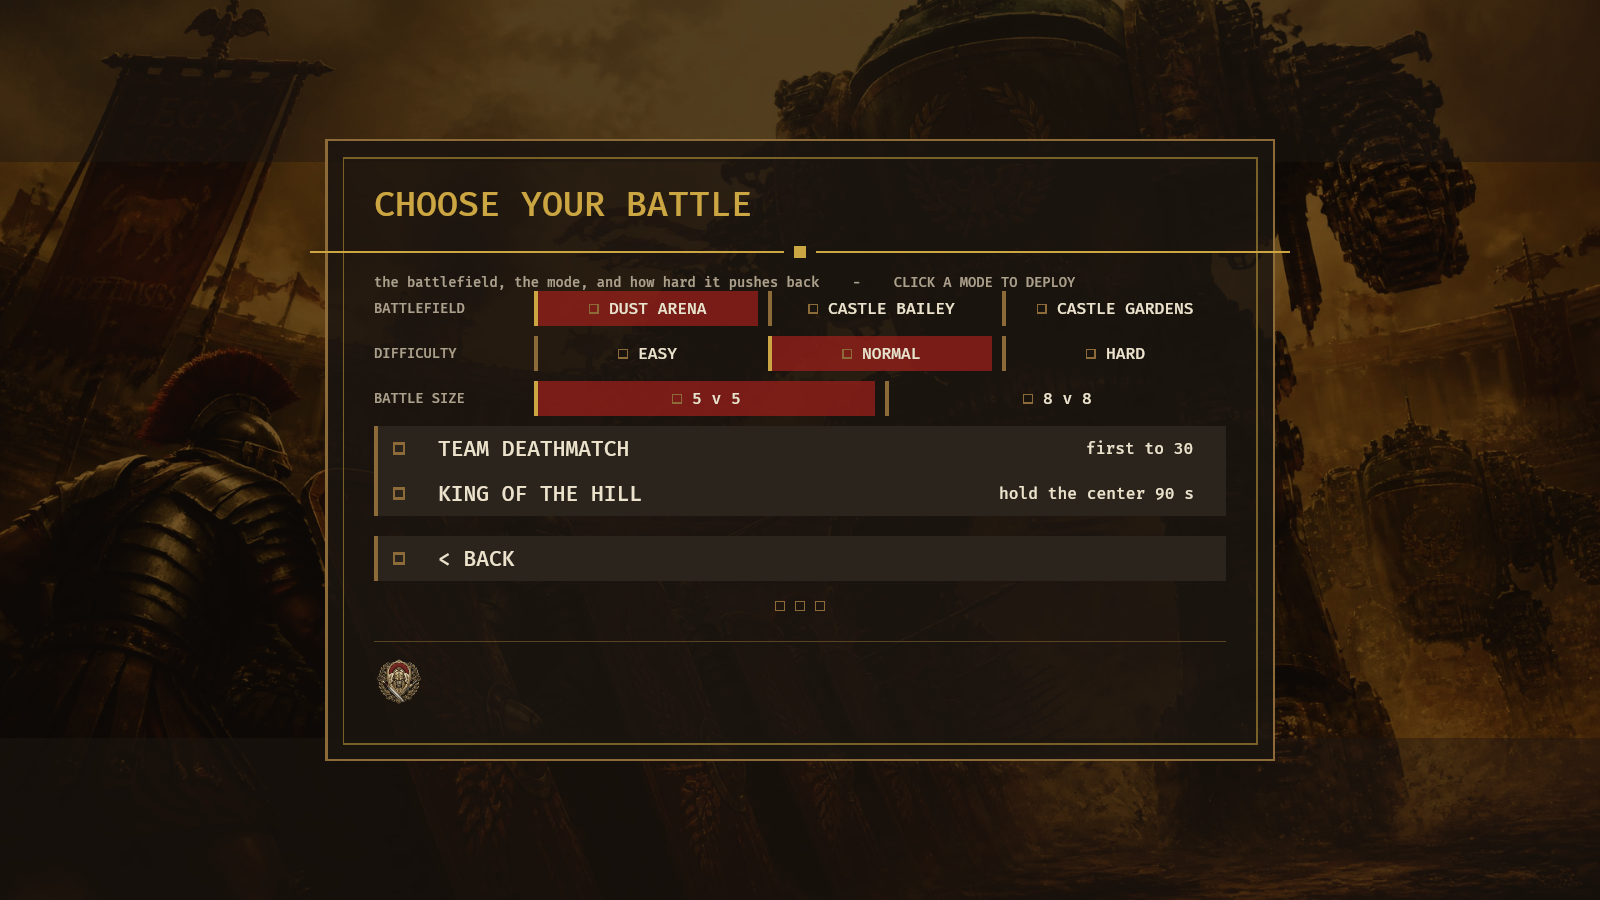
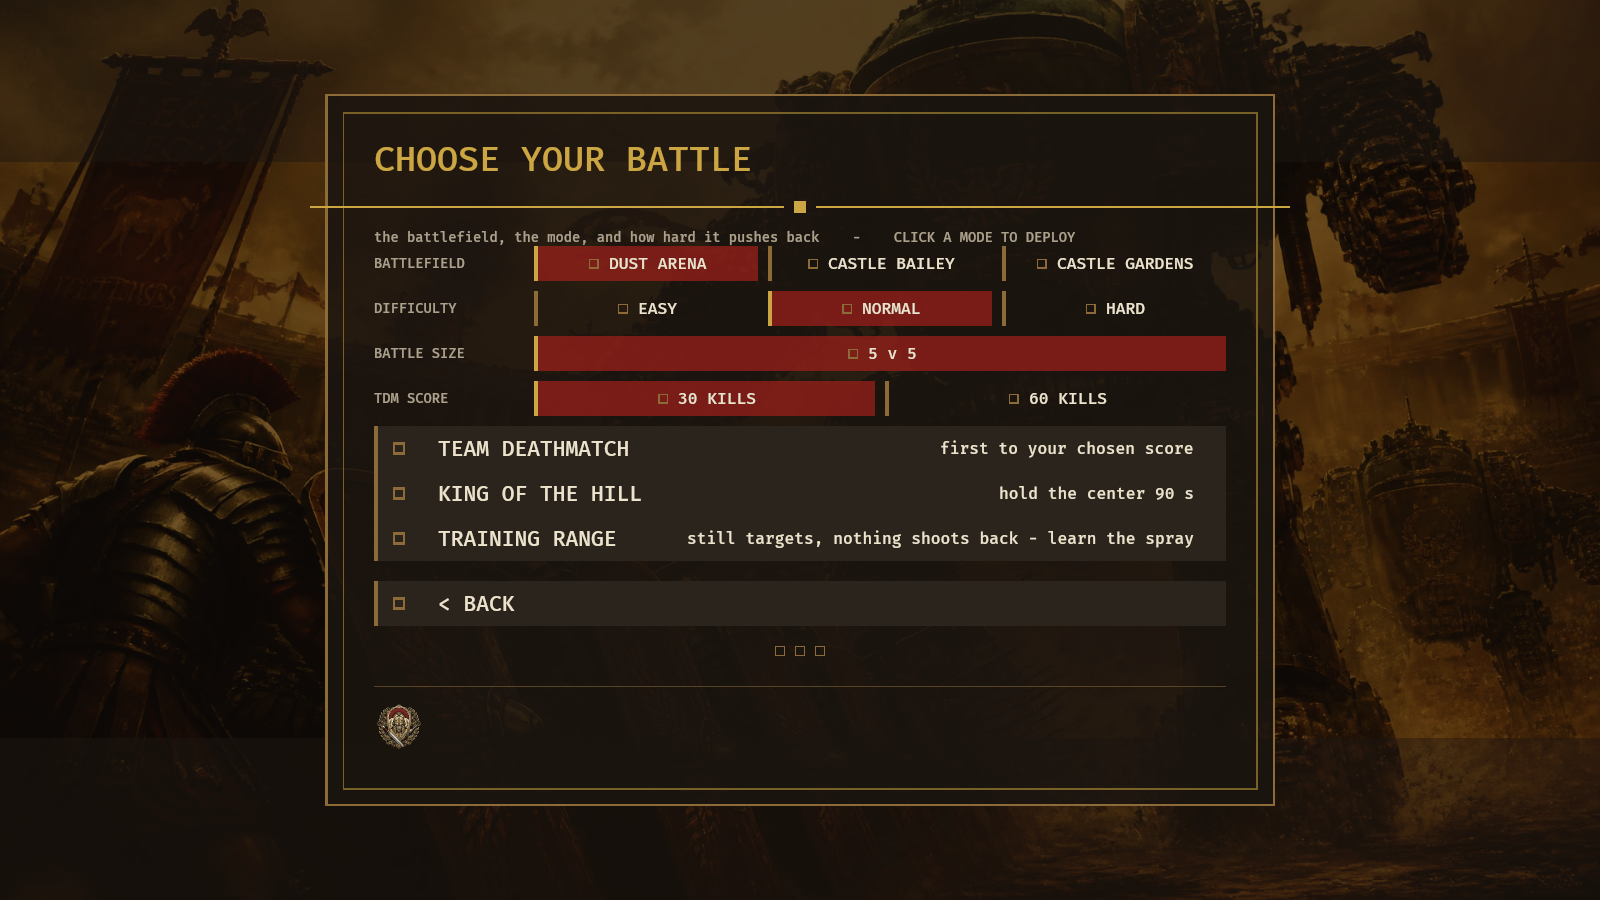
Selectable TDM score, 8v8 withdrawn, and a training range
TDM SCORE is a per-match choice now - 30 kills for a quick game, 60 for
a long one. The target moved onto MatchConfig and all three win checks
read the match's own value, so a short game and a long game are the same
mode at two lengths rather than two modes. TDM_TARGET stays as the
default and as the number the rules screen quotes. The live score line
quotes the match's target too, instead of a constant that no longer
speaks for it.

8v8 is withdrawn. The battle-size row keeps its shape with 5v5 alone,
rather than being deleted - a one-option row still tells the player the
axis exists and leaves somewhere for whatever replaces it.

TRAINING RANGE is a third mode: the targets stand still, never shoot
back, and are up again in 1.2 s instead of the full respawn. There is no
score target and no way to lose. It exists so a spray pattern and a
sight picture can be learned without dying to someone mid-lesson - which
matters more now that the first three rounds of a burst are the part
worth practising.

The range test earned itself immediately. Gating `bot_think` looked
sufficient and was not: that function PLANS, while `bot_act` pulls the
trigger, so the first cut left the targets standing politely still and
still shooting the player. Health was untouched only because they kept
missing. Both are gated now, and the test asserts on rounds fired rather
than damage taken - the stronger claim, and the one that caught it.

diff --git a/engine/crates/jk_tdm/src/sim.rs b/engine/crates/jk_tdm/src/sim.rs
@@ -306,7 +306,15 @@ pub const LEAN_SHIFT: f32 = 0.30;
 pub const LEAN_RECOIL_MULT: f32 = 0.8;
 pub const MATCH_LEN_S: f32 = 300.0;
 pub const OVERTIME_S: f32 = 80.0;
+/// Default TDM score target. The match now CARRIES its own target
+/// (`MatchConfig::tdm_target`) so a short game and a long game are the
+/// same mode at different lengths rather than two modes; this stays as
+/// the default and as the value the rules screen quotes.
 pub const TDM_TARGET: u32 = 30;
+/// The selectable TDM lengths: a quick match and a long one.
+pub const TDM_TARGET_CHOICES: [u32; 2] = [30, 60];
+/// How fast a training target is back on its feet.
+pub const TRAINING_RESPAWN_S: f32 = 1.2;
 pub const KOTH_TARGET_S: f32 = 90.0;
 pub const HILL_RADIUS: f32 = 4.5;
 pub const PICKUP_RADIUS: f32 = 1.1;
@@ -1445,6 +1453,8 @@ pub struct MatchConfig {
     pub map: MapKind,
     pub difficulty: Difficulty,
     pub loadout: Loadout,
+    /// §owner: kills needed to win a TDM. Selectable per match.
+    pub tdm_target: u32,
     /// §owner: the player's chosen class. Bots pick their own.
     pub class: Class,
     /// §6 (Brief IV): the player's melee slot carries the axe.
@@ -1463,6 +1473,7 @@ impl Default for MatchConfig {
             map: MapKind::Arena,
             difficulty: Difficulty::Normal,
             loadout: DEFAULT_LOADOUT,
+            tdm_target: TDM_TARGET,
             class: Class::Line,
             melee_axe: false,
             grenade_preset: 0,
@@ -3305,6 +3316,12 @@ pub enum Mode {
     /// §8: co-op survival — insert, fight the horde, extract with what
     /// you carry. Gear is lost on death.
     Extraction,
+    /// §owner: TRAINING. A range, not a match: the other side stands
+    /// still, never shoots back, and pops straight back up when killed.
+    /// There is no score target and no way to lose - it exists so a
+    /// player can learn a spray pattern and a sight picture without
+    /// dying to someone mid-lesson.
+    Training,
 }
 
 pub struct TdmSim {
@@ -5784,10 +5801,12 @@ impl TdmSim {
     /// a free heal. The claw path had already been special-cased for
     /// exactly this reason; the explosive paths had not.
     fn death_respawn_t(&self) -> f32 {
-        if self.mode == Mode::Extraction {
-            9999.0
-        } else {
-            RESPAWN_S
+        match self.mode {
+            Mode::Extraction => 9999.0,
+            // a target you have to wait five seconds for is a target you
+            // stop practising against
+            Mode::Training => TRAINING_RESPAWN_S,
+            _ => RESPAWN_S,
         }
     }
 
@@ -6642,7 +6661,7 @@ impl TdmSim {
             if self.mode == Mode::Tdm {
                 let s = Self::team_idx(self.fighters[i].team);
                 self.score[s] += 1.0;
-                if self.overtime || self.score[s] >= TDM_TARGET as f32 {
+                if self.overtime || self.score[s] >= self.cfg.tdm_target as f32 {
                     self.finish(self.fighters[i].team);
                 }
             }
@@ -7014,7 +7033,7 @@ impl TdmSim {
                 if self.mode == Mode::Tdm {
                     let s = Self::team_idx(self.fighters[i].team);
                     self.score[s] += 1.0;
-                    if self.overtime || self.score[s] >= TDM_TARGET as f32 {
+                    if self.overtime || self.score[s] >= self.cfg.tdm_target as f32 {
                         self.finish(self.fighters[i].team);
                     }
                 }
@@ -8116,7 +8135,7 @@ impl TdmSim {
                 if self.mode == Mode::Tdm {
                     let s = Self::team_idx(self.fighters[src].team);
                     self.score[s] += 1.0;
-                    if self.overtime || self.score[s] >= TDM_TARGET as f32 {
+                    if self.overtime || self.score[s] >= self.cfg.tdm_target as f32 {
                         self.finish(self.fighters[src].team);
                     }
                 }
@@ -8292,6 +8311,14 @@ impl TdmSim {
     }
 
     fn bot_think(&mut self, i: usize) {
+        // §owner: on the RANGE the targets are targets. They hold their
+        // ground and they never fire, so the only thing being tested is
+        // the player's own aim. Returning here skips the whole think -
+        // pathing, target selection and the fire decision alike - rather
+        // than muting the trigger and leaving them jogging around.
+        if self.mode == Mode::Training && i != self.player {
+            return;
+        }
         let half = self.half;
         let f = &self.fighters[i];
         let team = f.team;
@@ -8337,6 +8364,13 @@ impl TdmSim {
     }
 
     fn bot_act(&mut self, i: usize) {
+        // §owner: the range's promise lives here too. `bot_think` plans
+        // and `bot_act` pulls the trigger - gating only the planner left
+        // the targets standing still and still shooting, which the
+        // range test caught.
+        if self.mode == Mode::Training && i != self.player {
+            return;
+        }
         // difficulty shapes the whole brain: aim, reflexes, range, push.
         // §5.3: a flashed bot eats the SAME penalty a flashed human does —
         // aim spread ×4, reaction ×3, deterministically.
@@ -9461,6 +9495,48 @@ mod tests {
                 "the ramp must never go backwards at round {i}"
             );
         }
+    }
+
+    /// §owner: the RANGE's promise is "nothing shoots back". A training
+    /// mode where you can still be killed mid-lesson is not a training
+    /// mode, so this pins it through the real step loop rather than
+    /// trusting the early-return in `bot_think` to stay there.
+    #[test]
+    fn the_training_range_never_shoots_back() {
+        let mut cfg = cfg(0x713A, 3, Mode::Tdm, MapKind::Arena);
+        cfg.mode = Mode::Training;
+        let mut s = TdmSim::new(cfg);
+        s.mode = Mode::Training;
+        // stand the player in the open, in everyone's line of sight
+        s.fighters[0].pos = [0.0, 0.0, 0.0];
+        s.fighters[0].protect_t = 0.0;
+        let hp0 = s.fighters[0].health;
+        for _ in 0..(SIM_HZ as usize * 8) {
+            s.step(PlayerCmd::default());
+            s.fighters[0].pos = [0.0, 0.0, 0.0];
+            s.fighters[0].protect_t = 0.0;
+        }
+        assert_eq!(
+            s.fighters[0].health, hp0,
+            "a training target drew blood - the range must be safe"
+        );
+        assert!(
+            s.missiles.is_empty() && s.tracers.is_empty(),
+            "nothing on the range may fire a shot"
+        );
+        // and the targets hold their ground rather than roaming
+        for (i, f) in s.fighters.iter().enumerate().skip(1) {
+            let speed = (f.vel[0] * f.vel[0] + f.vel[1] * f.vel[1]).sqrt();
+            assert!(
+                speed < 0.01,
+                "target {i} is wandering at {speed} m/s - targets stand still"
+            );
+        }
+        // a killed target comes back fast enough to keep practising
+        assert!(
+            TRAINING_RESPAWN_S < RESPAWN_S,
+            "range targets must reset faster than a match respawn"
+        );
     }
 
     /// Climb checklist test 1+2: grip drains under hold, recovers under

diff --git a/engine/crates/jk_tdm/src/main.rs b/engine/crates/jk_tdm/src/main.rs
@@ -873,6 +873,8 @@ struct Selected {
     loadout: Loadout,
     /// §owner: the standing CLASS pick - who you are for the match.
     class: sim::Class,
+    /// §owner: kills to win a TDM - a quick 30 or a long 60.
+    tdm_target: u32,
     /// cosmetic only: hat + tunic colors picked before the match
     hat: usize,
     tunic: usize,
@@ -950,6 +952,7 @@ impl Default for Selected {
             per_team: 5,
             loadout: DEFAULT_LOADOUT,
             class: sim::Class::Line,
+            tdm_target: sim::TDM_TARGET,
             hat: 0,
             tunic: 0,
             melee_axe: false,
@@ -4242,6 +4245,8 @@ enum ModeButton {
     Koth,
     /// §8: co-op zombie extraction.
     Extraction,
+    /// §owner: the practice range.
+    Training,
 }
 
 #[derive(Component, Clone, Copy)]
@@ -4252,6 +4257,10 @@ struct DiffButton(Difficulty);
 
 #[derive(Component, Clone, Copy)]
 struct SizeButton(usize);
+
+/// §owner: the TDM score target pick - a quick match or a long one.
+#[derive(Component, Clone, Copy)]
+struct ScoreButton(u32);
 
 /// Loadout pick: (slot index, weapon).
 #[derive(Component, Clone, Copy)]
@@ -4615,6 +4624,7 @@ fn main() {
                 intro_loadout_buttons,
                 intro_cosmetic_buttons,
                 intro_class_buttons,
+                intro_score_buttons,
                 intro_melee_buttons,
                 intro_nade_buttons,
                 intro_diff_buttons,
@@ -12896,12 +12906,16 @@ fn hud_system(
         let score = match simr.mode {
             Mode::Tdm => format!(
                 "BLUE {:>2} - {:<2} RED   (first to {})",
-                simr.score[0] as u32, simr.score[1] as u32, TDM_TARGET
+                simr.score[0] as u32, simr.score[1] as u32, simr.cfg.tdm_target
             ),
             Mode::Koth => format!(
                 "HILL   BLUE {:>3.0}s - {:<3.0}s RED   (hold {:.0}s)",
                 simr.score[0], simr.score[1], KOTH_TARGET_S
             ),
+            Mode::Training => {
+                "TRAINING RANGE   targets reset themselves - nothing shoots back"
+                    .to_string()
+            }
             Mode::Extraction => {
                 // §8: the run readout - horde count, pressure, objective
                 let obj = match simr.extract_point() {
@@ -13689,6 +13703,8 @@ fn scoreboard_system(
                     Mode::Tdm => format!("{:.0}", game.sim.score[TdmSim::team_idx(team)]),
                     Mode::Koth => format!("{:.0}s", game.sim.score[TdmSim::team_idx(team)]),
                     Mode::Extraction => format!("{} horde", game.sim.zombies.len()),
+                    // no team score on the range - kills are the readout
+                    Mode::Training => "range".to_string(),
                 },
                 "NAME",
                 "K",
@@ -14298,9 +14314,17 @@ fn open_intro(
                 .map(|d| (d.name(), DiffButton(*d)))
                 .collect();
             menu_ui::pill_row(b, "DIFFICULTY", &diffs, mtch);
-            let sizes: Vec<(&str, SizeButton)> =
-                vec![("5 v 5", SizeButton(5)), ("8 v 8", SizeButton(8))];
+            // §owner: 8v8 withdrawn. The battle-size row keeps its
+            // shape for whatever replaces it rather than being deleted
+            // outright - a one-option row still tells the player the
+            // axis exists.
+            let sizes: Vec<(&str, SizeButton)> = vec![("5 v 5", SizeButton(5))];
             menu_ui::pill_row(b, "BATTLE SIZE", &sizes, mtch);
+            let targets: Vec<(&str, ScoreButton)> = vec![
+                ("30 KILLS", ScoreButton(30)),
+                ("60 KILLS", ScoreButton(60)),
+            ];
+            menu_ui::pill_row(b, "TDM SCORE", &targets, mtch);
             // Name and objective are separate cells now. As one 46-char
             // string they forced a 620px fixed width that wrapped and
             // overlapped the row beneath it at any smaller size.
@@ -14310,8 +14334,13 @@ fn open_intro(
             // is the whole change; the handler dispatches on the variant
             // and dead variants dispatch nothing.
             for (name, obj, which) in [
-                ("TEAM DEATHMATCH", "first to 30", ModeButton::Tdm),
+                ("TEAM DEATHMATCH", "first to your chosen score", ModeButton::Tdm),
                 ("KING OF THE HILL", "hold the center 90 s", ModeButton::Koth),
+                (
+                    "TRAINING RANGE",
+                    "still targets, nothing shoots back - learn the spray",
+                    ModeButton::Training,
+                ),
             ] {
                 menu_ui::menu_row(
                     b,
@@ -14483,6 +14512,7 @@ fn start_match(sel: &Selected, mode: Mode, game: &mut Game, next: &mut NextState
         map,
         difficulty: sel.difficulty,
         loadout: sel.loadout,
+        tdm_target: sel.tdm_target,
         class: sel.class,
         melee_axe: sel.melee_axe,
         grenade_preset: sel.grenade_preset,
@@ -14511,6 +14541,7 @@ fn intro_buttons(
                     ModeButton::Tdm => Mode::Tdm,
                     ModeButton::Koth => Mode::Koth,
                     ModeButton::Extraction => Mode::Extraction,
+                    ModeButton::Training => Mode::Training,
                 };
                 start_match(&sel, mode, &mut game, &mut next);
             }
@@ -14689,6 +14720,23 @@ fn intro_cosmetic_buttons(
             sel.tunic == cb.1
         };
         paint(&mut bg, &mut border, selected, *i == Interaction::Hovered);
+    }
+}
+
+fn intro_score_buttons(
+    mut q: Query<
+        (&Interaction, &ScoreButton, &mut BackgroundColor, &mut BorderColor),
+        With<Button>,
+    >,
+    mut sel: ResMut<Selected>,
+) {
+    for (i, sb, _, _) in &mut q {
+        if *i == Interaction::Pressed {
+            sel.tdm_target = sb.0;
+        }
+    }
+    for (i, sb, mut bg, mut border) in &mut q {
+        paint(&mut bg, &mut border, sel.tdm_target == sb.0, *i == Interaction::Hovered);
     }
 }
 
